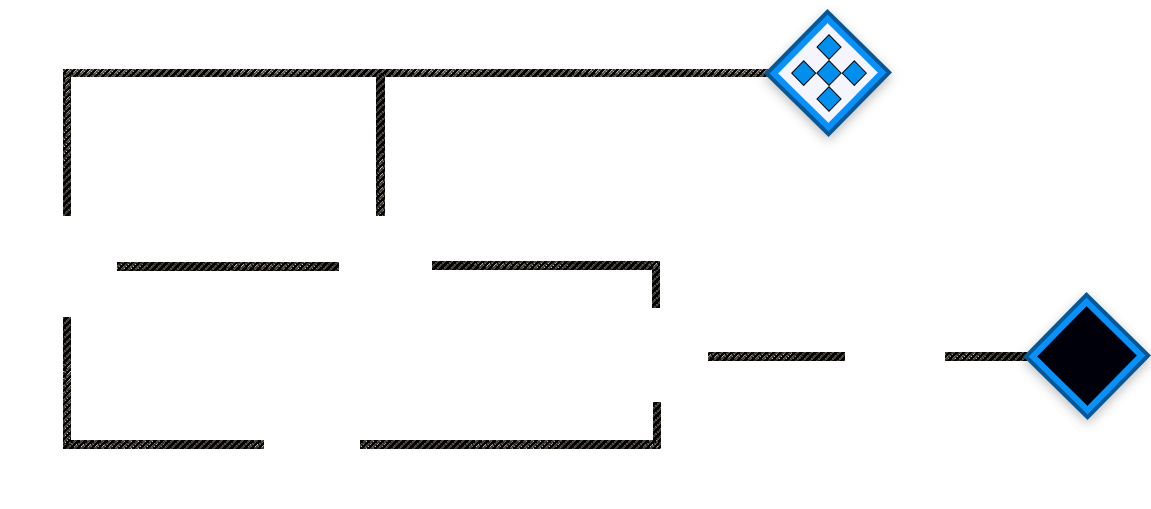
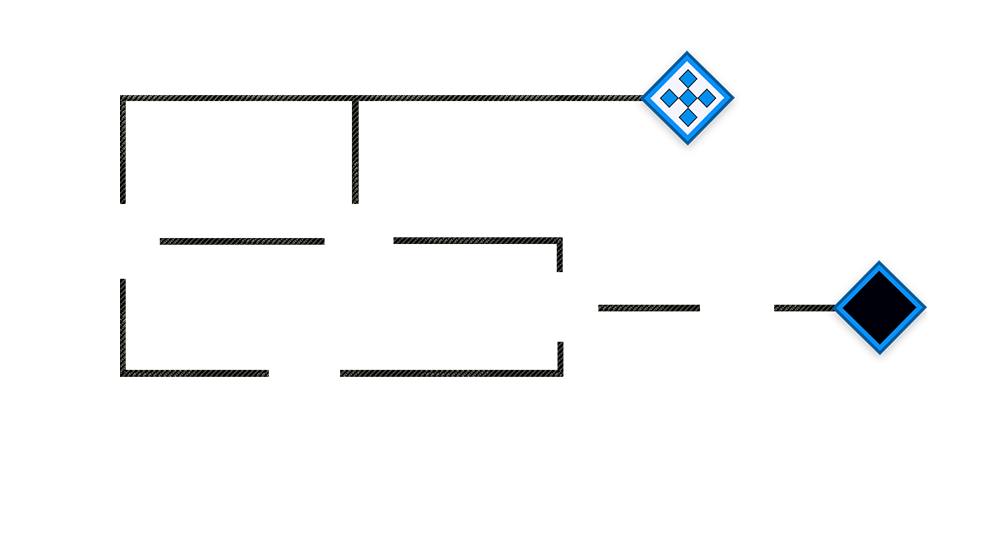
nigga say what

diff --git a/circuit/hack.c b/circuit/hack.c
@@ -26,28 +26,27 @@ typedef struct{
 void main(){
     int done = 1,x = 0,y = 0,a = 0,b = 0,c = 0;
     protocol base3[3],base2[2];
-    SDL_Surface *pos3[4],*pos2[2];
-    simple screen,image,circuit,locked,unlocked;
+    SDL_Surface *pos3[4],*pos2[2],*unlocked,*lockked;
+    simple screen,image,circuit,locked;
     SDL_Event event;
     image.image = IMG_Load("/home/shidono/Desktop/circuit/background.png");
     screen.image = SDL_SetVideoMode(1000, 550, 32, SDL_HWSURFACE | SDL_DOUBLEBUF);
     circuit.image = IMG_Load("/home/shidono/Desktop/circuit/plan.png");
-    unlocked.image = IMG_Load("/home/shidono/Desktop/circuit/unlocked.png");
-    locked.image = IMG_Load("/home/shidono/Desktop/circuit/locked.png");
+    unlocked = IMG_Load("/home/shidono/Desktop/circuit/unlocked.png");
+    lockked = IMG_Load("/home/shidono/Desktop/circuit/locked.png");
     pos3[0] = IMG_Load("/home/shidono/Desktop/circuit/3pos1.png");
     pos3[1] = IMG_Load("/home/shidono/Desktop/circuit/3pos2.png");
     pos3[2] = IMG_Load("/home/shidono/Desktop/circuit/3pos3.png");
     pos3[3] = IMG_Load("/home/shidono/Desktop/circuit/3pos4.png");
     pos2[0] = IMG_Load("/home/shidono/Desktop/circuit/2pos1.png");
     pos2[1] = IMG_Load("/home/shidono/Desktop/circuit/2pos2.png");
+    locked.image = lockked;
      //correct places
-    /*
-    firstleft.image = pos32;
-    middle.image = pos31;
-    bottom.image = pos21;
-    finalpos3.image = pos32;
-    finalpos2.image = pos21;
-    */
+    /*base3[0].image = pos3[1];
+    base3[1].image = pos3[0];
+    base3[2].image = pos3[1];
+    base2[0].image = pos2[0];
+    base2[1].image = pos2[0];*/
 
     // images
 
@@ -78,22 +77,23 @@ void main(){
     circuit.pos.x = 0;
     circuit.pos.y = 0;
 
-    base3[0].pos.x = 0;
-    base3[0].pos.y = 0;
+    base3[0].pos.x = 58;
+    base3[0].pos.y = 181;
 
-    base3[1].pos.x = 0;
-    base3[1].pos.y = 0;
+    base3[1].pos.x = 290;
+    base3[1].pos.y = 180;
 
-    base3[2].pos.x = 0;
-    base3[2].pos.y = 0;
+    base3[2].pos.x = 495;
+    base3[2].pos.y = 247;
 
-    base2[0].pos.x = 0;
-    base2[0].pos.y = 0;
+    base2[0].pos.x = 241;
+    base2[0].pos.y = 322;
 
-    base2[1].pos.x = 0;
-    base2[1].pos.y = 0;
+    base2[1].pos.x = 670;
+    base2[1].pos.y = 256;
 
-
+    locked.pos.x = 863;
+    locked.pos.y = 282;
     //start
     SDL_BlitSurface(image.image,NULL,screen.image,&image.pos);
     SDL_BlitSurface(circuit.image,NULL,screen.image,&circuit.pos);
@@ -131,7 +131,7 @@ void main(){
                                 base3[1].image = pos3[0];
                             }else{
                                 base3[1].direction++;
-                                base3[1].image = pos3[base3[0].direction];
+                                base3[1].image = pos3[base3[1].direction];
                             }
                         }else if(c){
                             if(base3[2].direction == 3){
@@ -139,7 +139,7 @@ void main(){
                                 base3[2].image = pos3[0];
                             }else{
                                 base3[2].direction++;
-                                base3[2].image = pos3[base3[0].direction];
+                                base3[2].image = pos3[base3[2].direction];
                             }
                         }
                     }else if((hover(base2[0].pos,x,y) || hover(base2[1].pos,x,y)) && SDL_BUTTON(SDL_BUTTON_LEFT)){
@@ -160,17 +160,30 @@ void main(){
                                 base2[1].image = pos2[1];
                             }
                         }
-                    }
+                    }else if(hover(locked.pos,x,y) && SDL_BUTTON(SDL_BUTTON_LEFT) && locked.image == unlocked){
+                        SDL_Delay(1000);
+                        SDL_FreeSurface(screen.image);
+                        SDL_FreeSurface(circuit.image);
+                        SDL_FreeSurface(locked.image);
+                }
                 break;
             }
         }
+         /*base3[0].image = pos3[1];
+    base3[1].image = pos3[0];
+    base3[2].image = pos3[1];
+    base2[0].image = pos2[0];
+    base2[1].image = pos2[0];*/
+        if(base3[0].direction == 1 && base3[1].direction == 0 && base3[2].direction == 1 && base2[0].direction == 0 && base2[1].direction == 0){
+            locked.image = unlocked;
+        }else locked.image = lockked;
         SDL_BlitSurface(image.image,NULL,screen.image,&image.pos);
         SDL_BlitSurface(circuit.image,NULL,screen.image,&circuit.pos);
         SDL_BlitSurface(locked.image,NULL,screen.image,&locked.pos);
         SDL_BlitSurface(base3[0].image,NULL,screen.image,&base3[0].pos);
         SDL_BlitSurface(base3[1].image,NULL,screen.image,&base3[1].pos);
         SDL_BlitSurface(base3[2].image,NULL,screen.image,&base3[2].pos);
-        SDL_BlitSurface(base2[0].image,NULL,screen.image,&base3[0].pos);
+        SDL_BlitSurface(base2[0].image,NULL,screen.image,&base2[0].pos);
         SDL_BlitSurface(base2[1].image,NULL,screen.image,&base2[1].pos);
         SDL_Flip(screen.image);
     }
